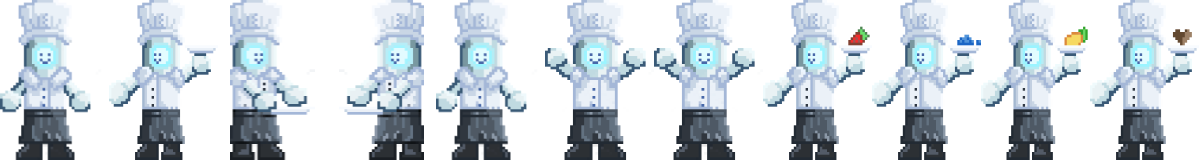
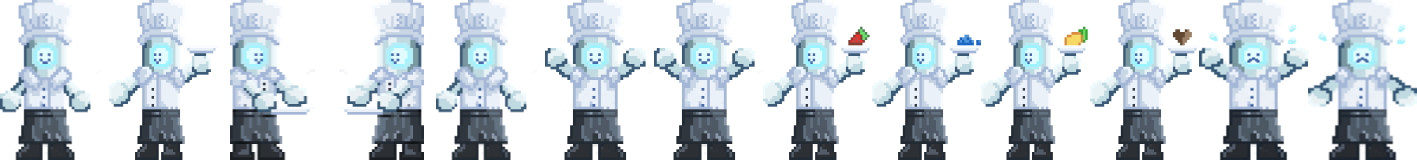
Changed style and added scared animation

diff --git a/lib/bundle.js b/lib/bundle.js
@@ -397,10 +397,10 @@ function _toConsumableArray(arr) { if (Array.isArray(arr)) { for (var i = 0, arr
 function _classCallCheck(instance, Constructor) { if (!(instance instanceof Constructor)) { throw new TypeError("Cannot call a class as a function"); } }
 
 var ScreenManager = function () {
-	function ScreenManager() {
+	function ScreenManager(stage) {
 		_classCallCheck(this, ScreenManager);
 
-		this.stage = new createjs.Stage('robo-tapper-canvas');
+		this.stage = stage;
 
 		var BACKGROUND_IMAGE_DATA = {
 			images: ['assets/DinerBG_F.png'],
@@ -484,6 +484,7 @@ var ScreenManager = function () {
 					bgm.src = "Audio/MainTheme.mp3";
 					bgm.play();
 					bgm.loop = true;
+					document.getElementById("Heading").style.color = "white";
 					this.game = new _game2.default(this.stage, this);
 					break;
 
@@ -982,10 +983,30 @@ var _screen_manager2 = _interopRequireDefault(_screen_manager);
 function _interopRequireDefault(obj) { return obj && obj.__esModule ? obj : { default: obj }; }
 
 window.onload = function () {
+	var startScreenBgData = {
+		images: ['assets/Overfilled_RemoveBg.png'],
+		frames: { width: 1920, height: 1080 }
+
+	};
+	var startScreenBgSpriteSheet = new createjs.SpriteSheet(startScreenBgData);
+	var startScreenBg = new createjs.Sprite(startScreenBgSpriteSheet);
+	var _ref = [0.6947, 0.695];
+	startScreenBg.scaleX = _ref[0];
+	startScreenBg.scaleY = _ref[1];
+	var _ref2 = [-160, -50];
+	startScreenBg.x = _ref2[0];
+	startScreenBg.y = _ref2[1];
+
+
+	this.stage = new createjs.Stage('robo-tapper-canvas');
+	this.stage.addChild(startScreenBg);
+	this.stage.update();
+	createjs.Ticker.addEventListener('tick', this.stage);
+
 	var hoverButtonSound = new Audio();
 	hoverButtonSound.src = "Audio/ButtonHoverSound.mp3";
 	var buttons = document.querySelectorAll('button');
-	var screenManager = new _screen_manager2.default();
+	var screenManager = new _screen_manager2.default(this.stage);
 	document.getElementById('BackButton').style.visibility = 'hidden';
 
 	function playHoverSound() {
@@ -1054,8 +1075,8 @@ var Player = function () {
 					hold_straw: [7, 7, false, 0.5],
 					hold_blue: [8, 8, false, 0.5],
 					hold_mango: [9, 9, false, 0.5],
-					hold_matcha: [10, 10, false, 0.5]
-					// 		scared:[13, 14, 'scared', 0.065]
+					hold_matcha: [10, 10, false, 0.5],
+					scared: [11, 12, 'scared', 0.065]
 				}
 			};
 			var playerSpriteSheet = new createjs.SpriteSheet(playerData);

diff --git a/lib/main.js b/lib/main.js
@@ -2,10 +2,26 @@ import ScreenManager from "./screen_manager.js";
 
 window.onload=function()
 {
+	var startScreenBgData =
+	{
+		images:['assets/Overfilled_RemoveBg.png'],
+		frames:{width:1920,height:1080}
+
+	};
+	var startScreenBgSpriteSheet  = new createjs.SpriteSheet(startScreenBgData);
+	var startScreenBg = new createjs.Sprite(startScreenBgSpriteSheet);
+	[startScreenBg.scaleX,startScreenBg.scaleY]=[0.6947,0.695];
+	[startScreenBg.x,startScreenBg.y]=[-160,-50];
+
+	this.stage = new createjs.Stage('robo-tapper-canvas');
+	this.stage.addChild(startScreenBg);
+	this.stage.update();
+	createjs.Ticker.addEventListener('tick', this.stage);
+
 	var hoverButtonSound = new Audio();
 	hoverButtonSound.src = "Audio/ButtonHoverSound.mp3";
 	var buttons = document.querySelectorAll('button');
-	const screenManager = new ScreenManager;
+	const screenManager = new ScreenManager(this.stage);
 	document.getElementById('BackButton').style.visibility='hidden';
 
 	function playHoverSound()

diff --git a/overfilled_style.css b/overfilled_style.css
@@ -18,7 +18,7 @@ body {
 }
 
 h1 {
-  color: white;
+  color: black;
   font-size: 46px;
   font-family: 'ARCADECLASSIC';
   padding: 0 ;
@@ -34,21 +34,22 @@ h1 {
 }
 
 .button-container {
-  position:relative;
-  width: 94%;
-  height:300px;
-  margin-top:350px;
-  margin-right:100px;
+  margin-left: auto;
+  margin-right: auto;
+  position:absolute;
+  width: 30%;
+  height:1080px;
+  margin-left:1100px;
   }
 
   button {
   position:absolute;
   top:25%;
-  left:40%;
-  padding: 2px 0px;
+  left:50%;
+  padding: 10px 0px;
   -ms-transform: translate(-50%, -50%);
   transform: translate(-50%, -50%);
-  font-size: 40px;
+  font-size: 80px;
   border:none;
   outline:none;
   background: none;
@@ -57,12 +58,11 @@ h1 {
   }
 
   #Controls{
-  left:67.5%;
+  top:35%;
   }
 
   #Quit{
-  top:60%;
-  left:53.2%;
+  top:45%;
   }
 
   #BackButton{

diff --git a/index.html b/index.html
@@ -2,7 +2,7 @@
 <html>
   <head>
     <meta charset="utf-8">
-    <title>Over-filled</title>
+    <title>Overfilled</title>
     <link rel="stylesheet" href="overfilled_style.css"/>
     <link rel="header icon" type="image/x-icon" href="assets/TempFullRecipes/Cake3.png"/>
     <script src="https://code.createjs.com/1.0.0/createjs.min.js"></script>
@@ -20,7 +20,7 @@
   <body>
 
     <div class="header-container">
-      <h1>Over-fullfilled</h1>
+      <h1 id="Heading">Overfilled</h1>
     </div>
     <div class="canvas-container">
       <canvas id="robo-tapper-canvas" class="robo-tapper-canvas" width="1200" height="750"></canvas>

diff --git a/lib/screen_manager.js b/lib/screen_manager.js
@@ -2,9 +2,9 @@ import Game from "./game.js";
 
 export default class ScreenManager 
 {
-	constructor() 
+	constructor(stage) 
 	{
-  		this.stage = new createjs.Stage('robo-tapper-canvas');
+  		this.stage = stage;
 
   		const BACKGROUND_IMAGE_DATA = 
   		{
@@ -75,6 +75,7 @@ export default class ScreenManager
 			bgm.src = "Audio/MainTheme.mp3";
 			bgm.play();
 			bgm.loop=true;
+			document.getElementById("Heading").style.color="white";
 			this.game = new Game(this.stage, this);
 			break;
 

diff --git a/lib/player.js b/lib/player.js
@@ -23,7 +23,7 @@ export default class Player
 				hold_blue:[8, 8, false, 0.5],
 				hold_mango:[9, 9, false, 0.5],
 				hold_matcha:[10, 10, false, 0.5],
-		// 		scared:[13, 14, 'scared', 0.065]
+		 		scared:[11, 12, 'scared', 0.065]
 			}
 		};
 		var playerSpriteSheet = new createjs.SpriteSheet(playerData);
